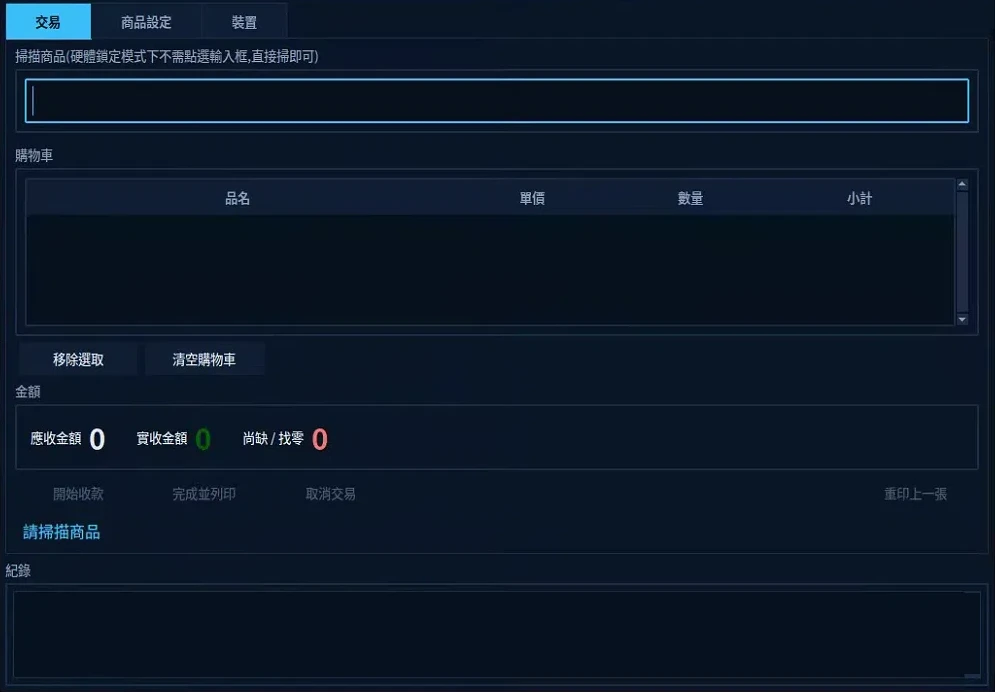
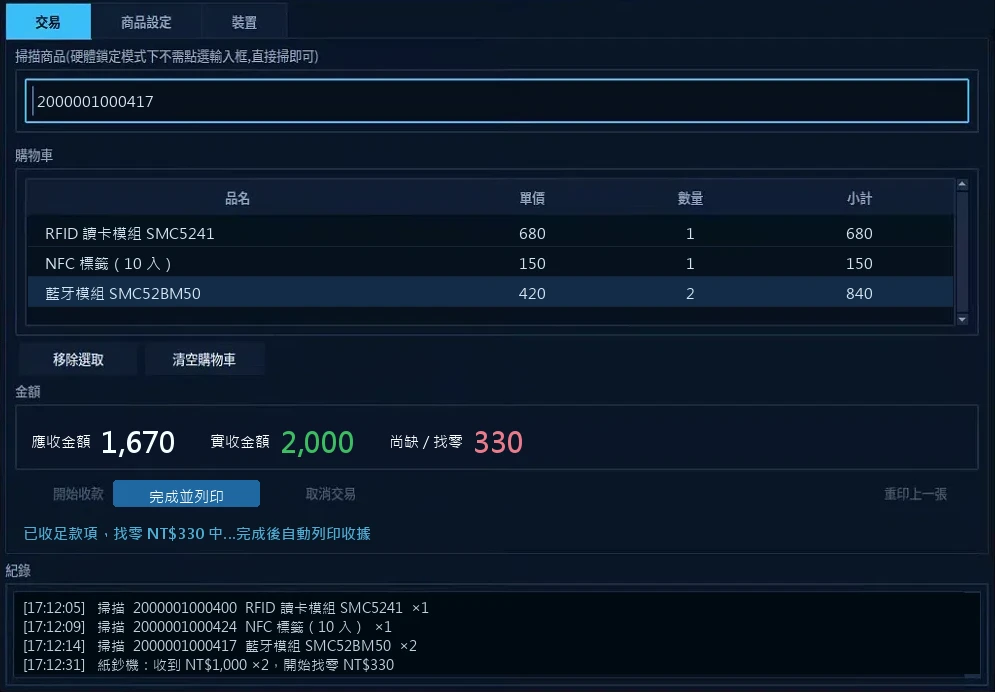
Edge AI: illustrative self-checkout screen with cart and payment in progress

diff --git a/jp/edge-ai.html b/jp/edge-ai.html
@@ -334,7 +334,7 @@ header 結束
 <section class="sx-sec"><div class="container">
 <h2>1台のキオスクで3つのAIアプリを同時に</h2>
 <p class="lede">Edge AI セルフサービスキオスクの中にある Pandora は1台だけ。それでもスマート物流、スマートリテール、顔検出・人流分析の3システムが常駐しています。タッチ画面上部のタブで即座に切り替えられ、アプリの再起動は不要。映像や取引データは本体内で処理します。下のタブで体験できます。</p>
-<div class="sx-mt"><div class="sx-mt-bezel"><div class="sx-mt-tabs" role="tablist" aria-label="Edge AI kiosk"><button type="button" role="tab" id="mt-t0" aria-controls="mt-p0" aria-selected="true" tabindex="0">スマート物流</button><button type="button" role="tab" id="mt-t1" aria-controls="mt-p1" aria-selected="false" tabindex="-1">スマートリテール</button><button type="button" role="tab" id="mt-t2" aria-controls="mt-p2" aria-selected="false" tabindex="-1">顔検出・人流分析</button></div><div role="tabpanel" id="mt-p0" aria-labelledby="mt-t0"><div class="sx-mt-shot"><img src="/img/solutions/edgeai-logistics.webp" alt="スマート物流: 物流センターのカゴ車フロー監視：30,000 個のアクティブ RFID タグを 20 台のリーダーでリアルタイムに位置特定。" width="1024" height="700"><a class="sx-mt-live" href="/demo/crate-sim-ja.html" target="_blank" rel="noopener">操作できる物流デモを開く ↗</a></div><p class="sx-mt-cap">物流センターのカゴ車フロー監視：30,000 個のアクティブ RFID タグを 20 台のリーダーでリアルタイムに位置特定。</p></div><div role="tabpanel" id="mt-p1" aria-labelledby="mt-t1" hidden><div class="sx-mt-shot"><img src="/img/solutions/edgeai-retail.webp" alt="スマートリテール: セルフレジ：バーコードスキャン、紙幣受け取り、おつり、レシート印刷。" width="1024" height="700" loading="lazy"></div><p class="sx-mt-cap">セルフレジ：バーコードスキャン、紙幣受け取り、おつり、レシート印刷。</p></div><div role="tabpanel" id="mt-p2" aria-labelledby="mt-t2" hidden><div class="sx-mt-shot"><img src="/img/solutions/edgeai-vision.webp" alt="顔検出・人流分析: 顔認識は同意済みリストの人物のみ照合。このスクリーンショットでは氏名をぼかしています。" width="1024" height="700" loading="lazy"></div><p class="sx-mt-cap">顔認識は同意済みリストの人物のみ照合。このスクリーンショットでは氏名をぼかしています。</p></div></div><div class="sx-mt-stand" aria-hidden="true"></div></div>
+<div class="sx-mt"><div class="sx-mt-bezel"><div class="sx-mt-tabs" role="tablist" aria-label="Edge AI kiosk"><button type="button" role="tab" id="mt-t0" aria-controls="mt-p0" aria-selected="true" tabindex="0">スマート物流</button><button type="button" role="tab" id="mt-t1" aria-controls="mt-p1" aria-selected="false" tabindex="-1">スマートリテール</button><button type="button" role="tab" id="mt-t2" aria-controls="mt-p2" aria-selected="false" tabindex="-1">顔検出・人流分析</button></div><div role="tabpanel" id="mt-p0" aria-labelledby="mt-t0"><div class="sx-mt-shot"><img src="/img/solutions/edgeai-logistics.webp" alt="スマート物流: 物流センターのカゴ車フロー監視：30,000 個のアクティブ RFID タグを 20 台のリーダーでリアルタイムに位置特定。" width="1024" height="700"><a class="sx-mt-live" href="/demo/crate-sim-ja.html" target="_blank" rel="noopener">操作できる物流デモを開く ↗</a></div><p class="sx-mt-cap">物流センターのカゴ車フロー監視：30,000 個のアクティブ RFID タグを 20 台のリーダーでリアルタイムに位置特定。</p></div><div role="tabpanel" id="mt-p1" aria-labelledby="mt-t1" hidden><div class="sx-mt-shot"><img src="/img/solutions/edgeai-retail.webp?v=2" alt="スマートリテール: セルフレジ（イメージ画面）：バーコードスキャン、紙幣受け取り、おつり、レシート印刷。" width="1024" height="700" loading="lazy"></div><p class="sx-mt-cap">セルフレジ（イメージ画面）：バーコードスキャン、紙幣受け取り、おつり、レシート印刷。</p></div><div role="tabpanel" id="mt-p2" aria-labelledby="mt-t2" hidden><div class="sx-mt-shot"><img src="/img/solutions/edgeai-vision.webp" alt="顔検出・人流分析: 顔認識は同意済みリストの人物のみ照合。このスクリーンショットでは氏名をぼかしています。" width="1024" height="700" loading="lazy"></div><p class="sx-mt-cap">顔認識は同意済みリストの人物のみ照合。このスクリーンショットでは氏名をぼかしています。</p></div></div><div class="sx-mt-stand" aria-hidden="true"></div></div>
 </div></section>
 <section class="sx-sec alt"><div class="container">
 <h2>1台で3つを動かす仕組み</h2>

diff --git a/edge-ai.html b/edge-ai.html
@@ -334,7 +334,7 @@ header 結束
 <section class="sx-sec"><div class="container">
 <h2>One kiosk, three AI applications at once</h2>
 <p class="lede">The Edge AI self-service kiosk has a single Pandora inside, yet smart logistics, smart retail and face detection with people-flow analytics all stay running on it. Tap a tab at the top of the touchscreen to switch, with no app restart, and images and transactions are processed on the device. Try the tabs below.</p>
-<div class="sx-mt"><div class="sx-mt-bezel"><div class="sx-mt-tabs" role="tablist" aria-label="Edge AI kiosk"><button type="button" role="tab" id="mt-t0" aria-controls="mt-p0" aria-selected="true" tabindex="0">Smart logistics</button><button type="button" role="tab" id="mt-t1" aria-controls="mt-p1" aria-selected="false" tabindex="-1">Smart retail</button><button type="button" role="tab" id="mt-t2" aria-controls="mt-p2" aria-selected="false" tabindex="-1">Face detection &amp; people flow</button></div><div role="tabpanel" id="mt-p0" aria-labelledby="mt-t0"><div class="sx-mt-shot"><img src="/img/solutions/edgeai-logistics.webp" alt="Smart logistics: Logistics centre crate-flow dashboard: 30,000 active RFID tags located in real time by 20 readers." width="1024" height="700"><a class="sx-mt-live" href="/demo/crate-sim-en.html" target="_blank" rel="noopener">Open the interactive logistics demo ↗</a></div><p class="sx-mt-cap">Logistics centre crate-flow dashboard: 30,000 active RFID tags located in real time by 20 readers.</p></div><div role="tabpanel" id="mt-p1" aria-labelledby="mt-t1" hidden><div class="sx-mt-shot"><img src="/img/solutions/edgeai-retail.webp" alt="Smart retail: Self-checkout: barcode scanning, cash acceptance, change and receipt printing." width="1024" height="700" loading="lazy"></div><p class="sx-mt-cap">Self-checkout: barcode scanning, cash acceptance, change and receipt printing.</p></div><div role="tabpanel" id="mt-p2" aria-labelledby="mt-t2" hidden><div class="sx-mt-shot"><img src="/img/solutions/edgeai-vision.webp" alt="Face detection &amp; people flow: Face recognition only matches people on an opt-in list. Names are blurred in this screenshot." width="1024" height="700" loading="lazy"></div><p class="sx-mt-cap">Face recognition only matches people on an opt-in list. Names are blurred in this screenshot.</p></div></div><div class="sx-mt-stand" aria-hidden="true"></div></div>
+<div class="sx-mt"><div class="sx-mt-bezel"><div class="sx-mt-tabs" role="tablist" aria-label="Edge AI kiosk"><button type="button" role="tab" id="mt-t0" aria-controls="mt-p0" aria-selected="true" tabindex="0">Smart logistics</button><button type="button" role="tab" id="mt-t1" aria-controls="mt-p1" aria-selected="false" tabindex="-1">Smart retail</button><button type="button" role="tab" id="mt-t2" aria-controls="mt-p2" aria-selected="false" tabindex="-1">Face detection &amp; people flow</button></div><div role="tabpanel" id="mt-p0" aria-labelledby="mt-t0"><div class="sx-mt-shot"><img src="/img/solutions/edgeai-logistics.webp" alt="Smart logistics: Logistics centre crate-flow dashboard: 30,000 active RFID tags located in real time by 20 readers." width="1024" height="700"><a class="sx-mt-live" href="/demo/crate-sim-en.html" target="_blank" rel="noopener">Open the interactive logistics demo ↗</a></div><p class="sx-mt-cap">Logistics centre crate-flow dashboard: 30,000 active RFID tags located in real time by 20 readers.</p></div><div role="tabpanel" id="mt-p1" aria-labelledby="mt-t1" hidden><div class="sx-mt-shot"><img src="/img/solutions/edgeai-retail.webp?v=2" alt="Smart retail: Self-checkout (illustrative screen): barcode scanning, cash acceptance, change and receipt printing." width="1024" height="700" loading="lazy"></div><p class="sx-mt-cap">Self-checkout (illustrative screen): barcode scanning, cash acceptance, change and receipt printing.</p></div><div role="tabpanel" id="mt-p2" aria-labelledby="mt-t2" hidden><div class="sx-mt-shot"><img src="/img/solutions/edgeai-vision.webp" alt="Face detection &amp; people flow: Face recognition only matches people on an opt-in list. Names are blurred in this screenshot." width="1024" height="700" loading="lazy"></div><p class="sx-mt-cap">Face recognition only matches people on an opt-in list. Names are blurred in this screenshot.</p></div></div><div class="sx-mt-stand" aria-hidden="true"></div></div>
 </div></section>
 <section class="sx-sec alt"><div class="container">
 <h2>How one box runs all three</h2>

diff --git a/tw/edge-ai.html b/tw/edge-ai.html
@@ -327,7 +327,7 @@ header 結束
 <section class="sx-sec"><div class="container">
 <h2>一台服務機，同時跑三個 AI 應用</h2>
 <p class="lede">Edge AI 自助服務機裡只有一台 Pandora，卻同時常駐智慧物流、智慧零售、人臉偵測及人流分析三套系統。觸控螢幕上方的分頁一點就切換，不必重開程式；影像和交易資料都在本機處理。下方可以直接切換體驗。</p>
-<div class="sx-mt"><div class="sx-mt-bezel"><div class="sx-mt-tabs" role="tablist" aria-label="Edge AI kiosk"><button type="button" role="tab" id="mt-t0" aria-controls="mt-p0" aria-selected="true" tabindex="0">智慧物流</button><button type="button" role="tab" id="mt-t1" aria-controls="mt-p1" aria-selected="false" tabindex="-1">智慧零售</button><button type="button" role="tab" id="mt-t2" aria-controls="mt-p2" aria-selected="false" tabindex="-1">人臉偵測及人流分析</button></div><div role="tabpanel" id="mt-p0" aria-labelledby="mt-t0"><div class="sx-mt-shot"><img src="/img/solutions/edgeai-logistics.webp" alt="智慧物流: 物流中心貨籃流向看板：30,000 個主動式 RFID 標籤、20 台讀取器即時定位。" width="1024" height="700"><a class="sx-mt-live" href="/demo/crate-sim-tw.html" target="_blank" rel="noopener">開啟可互動的物流模擬 ↗</a></div><p class="sx-mt-cap">物流中心貨籃流向看板：30,000 個主動式 RFID 標籤、20 台讀取器即時定位。</p></div><div role="tabpanel" id="mt-p1" aria-labelledby="mt-t1" hidden><div class="sx-mt-shot"><img src="/img/solutions/edgeai-retail.webp" alt="智慧零售: 自助結帳：掃描商品、紙鈔收受、找零與收據列印。" width="1024" height="700" loading="lazy"></div><p class="sx-mt-cap">自助結帳：掃描商品、紙鈔收受、找零與收據列印。</p></div><div role="tabpanel" id="mt-p2" aria-labelledby="mt-t2" hidden><div class="sx-mt-shot"><img src="/img/solutions/edgeai-vision.webp" alt="人臉偵測及人流分析: 人臉辨識只比對已同意名單；本截圖中的姓名已遮蔽。" width="1024" height="700" loading="lazy"></div><p class="sx-mt-cap">人臉辨識只比對已同意名單；本截圖中的姓名已遮蔽。</p></div></div><div class="sx-mt-stand" aria-hidden="true"></div></div>
+<div class="sx-mt"><div class="sx-mt-bezel"><div class="sx-mt-tabs" role="tablist" aria-label="Edge AI kiosk"><button type="button" role="tab" id="mt-t0" aria-controls="mt-p0" aria-selected="true" tabindex="0">智慧物流</button><button type="button" role="tab" id="mt-t1" aria-controls="mt-p1" aria-selected="false" tabindex="-1">智慧零售</button><button type="button" role="tab" id="mt-t2" aria-controls="mt-p2" aria-selected="false" tabindex="-1">人臉偵測及人流分析</button></div><div role="tabpanel" id="mt-p0" aria-labelledby="mt-t0"><div class="sx-mt-shot"><img src="/img/solutions/edgeai-logistics.webp" alt="智慧物流: 物流中心貨籃流向看板：30,000 個主動式 RFID 標籤、20 台讀取器即時定位。" width="1024" height="700"><a class="sx-mt-live" href="/demo/crate-sim-tw.html" target="_blank" rel="noopener">開啟可互動的物流模擬 ↗</a></div><p class="sx-mt-cap">物流中心貨籃流向看板：30,000 個主動式 RFID 標籤、20 台讀取器即時定位。</p></div><div role="tabpanel" id="mt-p1" aria-labelledby="mt-t1" hidden><div class="sx-mt-shot"><img src="/img/solutions/edgeai-retail.webp?v=2" alt="智慧零售: 自助結帳（示意畫面）：掃描商品、紙鈔收受、找零與收據列印。" width="1024" height="700" loading="lazy"></div><p class="sx-mt-cap">自助結帳（示意畫面）：掃描商品、紙鈔收受、找零與收據列印。</p></div><div role="tabpanel" id="mt-p2" aria-labelledby="mt-t2" hidden><div class="sx-mt-shot"><img src="/img/solutions/edgeai-vision.webp" alt="人臉偵測及人流分析: 人臉辨識只比對已同意名單；本截圖中的姓名已遮蔽。" width="1024" height="700" loading="lazy"></div><p class="sx-mt-cap">人臉辨識只比對已同意名單；本截圖中的姓名已遮蔽。</p></div></div><div class="sx-mt-stand" aria-hidden="true"></div></div>
 </div></section>
 <section class="sx-sec alt"><div class="container">
 <h2>一台機器怎麼同時跑三個應用</h2>
